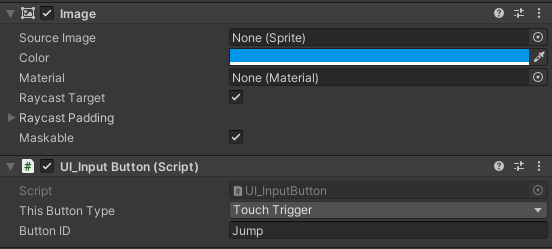
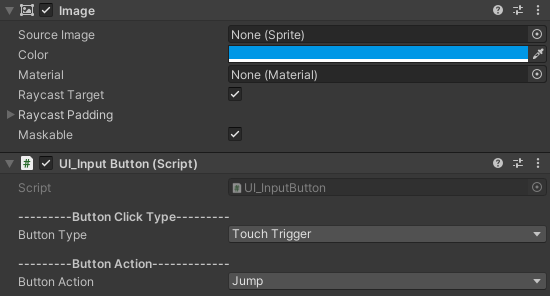
Upgraded to Enum Actions for inputs

diff --git a/Unity Files/Assets/Scripts/UI_InputSystem/Base/UI_InputSystem.cs b/Unity Files/Assets/Scripts/UI_InputSystem/Base/UI_InputSystem.cs
@@ -1,11 +1,12 @@
 using System.Collections.Generic;
 using UnityEngine;
 using UI_Inputs;
+using UI_Inputs.Enums;
 
 public static class UI_InputSystem
 {
-    private static Dictionary<string, UI_InputJoystick> UI_JoySticks;
-    private static Dictionary<string, UI_InputButton> UI_Buttons;
+    private static Dictionary<ButtonAction, UI_InputButton> UI_Buttons;
+    private static Dictionary<JoyStickAction, UI_InputJoystick> UI_JoySticks;
 
     #region Initialize Area
     static void PrepareValues()
@@ -32,7 +33,7 @@ public static class UI_InputSystem
     #endregion
 
     #region Inputs Area
-    static bool ButtonPressProcessor(string buttonToCheckPress)
+    static bool ButtonPressProcessor(ButtonAction buttonToCheckPress)
     {
         PrepareValues();
 
@@ -42,7 +43,7 @@ public static class UI_InputSystem
         return false;
     }
 
-    static Vector2 JoyStickProcessor(string joyStickToCheckPress)
+    static Vector2 JoyStickProcessor(JoyStickAction joyStickToCheckPress)
     {
         PrepareValues();
 
@@ -52,20 +53,20 @@ public static class UI_InputSystem
         return Vector2.zero;
     }
 
-    public static Vector2 PlayerMovementDirection => JoyStickProcessor("movementJoystick");
+    public static Vector2 PlayerMovementDirection => JoyStickProcessor(JoyStickAction.Movement);
 
-    public static float Camera_X_Movement => JoyStickProcessor("cameraJoystick").x;
+    public static float Camera_X_Movement => JoyStickProcessor(JoyStickAction.CameraLook).x;
 
-    public static float Camera_Y_Movement => JoyStickProcessor("cameraJoystick").y;
+    public static float Camera_Y_Movement => JoyStickProcessor(JoyStickAction.CameraLook).y;
 
-    public static bool JumpInput => ButtonPressProcessor("Jump");
+    public static bool JumpInput => ButtonPressProcessor(ButtonAction.Jump);
 
-    public static bool ClickInput => ButtonPressProcessor("clickTrigger");
+    public static bool ClickInput => ButtonPressProcessor(ButtonAction.Action1);
 
-    public static bool AfterClickInput => ButtonPressProcessor("afterTrigger");
+    public static bool AfterClickInput => ButtonPressProcessor(ButtonAction.Action2);
 
-    public static bool HoldClickInput => ButtonPressProcessor("holdTrigger");
+    public static bool HoldClickInput => ButtonPressProcessor(ButtonAction.Action3);
 
-    public static bool TouchInput => ButtonPressProcessor("touchTrigger");
+    public static bool TouchInput => ButtonPressProcessor(ButtonAction.Action4);
     #endregion
 }

diff --git a/Unity Files/Assets/Scripts/UI_InputSystem/Tools/UI_InputButton.cs b/Unity Files/Assets/Scripts/UI_InputSystem/Tools/UI_InputButton.cs
@@ -1,20 +1,23 @@
 using System.Collections;
 using UnityEngine;
 using UnityEngine.EventSystems;
+using UI_Inputs.Enums;
 
 namespace UI_Inputs
 {
     public class UI_InputButton : MonoBehaviour, IPointerClickHandler, IPointerDownHandler, IPointerUpHandler
     {
+        [Header("---------Button Click Type---------")]
         [SerializeField]
-        private ButtonType thisButtonType = ButtonType.ClickTrigger;
+        private ButtonType buttonType = ButtonType.ClickTrigger;
 
+        [Header("---------Button Action-------------")]
         [SerializeField]
-        private string _buttonID = "Jump";
+        private ButtonAction _buttonAction = ButtonAction.Jump;
 
         public bool isPressing { get; private set; } = false;
 
-        public string idButton => _buttonID;
+        public ButtonAction idButton => _buttonAction;
 
         public void OnPointerClick(PointerEventData eventData)
         {
@@ -35,25 +38,25 @@ namespace UI_Inputs
 
         void ProcessIfTouchTrigger()
         {
-            if (thisButtonType == ButtonType.TouchTrigger)
-                StartCoroutine(MakeClick());
+            if (buttonType == ButtonType.TouchTrigger)
+                StartCoroutine(MakeAFrameClick());
         }
 
         void ProcessIfAfterClickTrigger()
         {
-            if (thisButtonType == ButtonType.AfterClickTrigger)
-                StartCoroutine(MakeClick());
+            if (buttonType == ButtonType.AfterClickTrigger)
+                StartCoroutine(MakeAFrameClick());
         }
 
         void ProcessIfClickTrigger()
         {
-            if (thisButtonType == ButtonType.ClickTrigger)
-                StartCoroutine(MakeClick());
+            if (buttonType == ButtonType.ClickTrigger)
+                StartCoroutine(MakeAFrameClick());
         }
 
         void ProcessIfHoldTrigger()
         {
-            if (thisButtonType == ButtonType.HoldTrigger)
+            if (buttonType == ButtonType.HoldTrigger)
                 isPressing = !isPressing;
         }
 
@@ -62,7 +65,7 @@ namespace UI_Inputs
             isPressing = false;
         }
 
-        IEnumerator MakeClick()
+        IEnumerator MakeAFrameClick()
         {
             isPressing = true;
             yield return new WaitForEndOfFrame();

diff --git a/Unity Files/Assets/Scripts/UI_InputSystem/Base/UI_InputsFinder.cs b/Unity Files/Assets/Scripts/UI_InputSystem/Base/UI_InputsFinder.cs
@@ -1,16 +1,17 @@
 using System.Collections.Generic;
 using UnityEngine;
+using UI_Inputs.Enums;
 
 namespace UI_Inputs
 {
     public static class UI_InputsFinder
     {
-        public static Dictionary<string, UI_InputButton> GetButtonDictionary()
+        public static Dictionary<ButtonAction, UI_InputButton> GetButtonDictionary()
         {
-            Dictionary<string, UI_InputButton> newUI_Buttons;
+            Dictionary<ButtonAction, UI_InputButton> newUI_Buttons;
 
             UI_InputButton[] availableButtons = GetObjectsOfTypeUI_Button();
-            newUI_Buttons = new Dictionary<string, UI_InputButton>();
+            newUI_Buttons = new Dictionary<ButtonAction, UI_InputButton>();
 
             foreach (UI_InputButton button in availableButtons)
             {
@@ -21,12 +22,12 @@ namespace UI_Inputs
             return newUI_Buttons;
         }
 
-        public static Dictionary<string, UI_InputJoystick> GetJoystickDictionary()
+        public static Dictionary<JoyStickAction, UI_InputJoystick> GetJoystickDictionary()
         {
-            Dictionary<string, UI_InputJoystick> newUI_Joysticks;
+            Dictionary<JoyStickAction, UI_InputJoystick> newUI_Joysticks;
 
             UI_InputJoystick[] availableJoysticks = GetObjectsOfTypeUI_Joystick();
-            newUI_Joysticks = new Dictionary<string, UI_InputJoystick>();
+            newUI_Joysticks = new Dictionary<JoyStickAction, UI_InputJoystick>();
 
             foreach (UI_InputJoystick joystick in availableJoysticks)
             {

diff --git a/Unity Files/Assets/Scripts/UI_InputSystem/Tools/UI_InputJoystick.cs b/Unity Files/Assets/Scripts/UI_InputSystem/Tools/UI_InputJoystick.cs
@@ -1,13 +1,14 @@
 using UnityEngine;
+using UI_Inputs.Enums;
 
 namespace UI_Inputs
 {
     public class UI_InputJoystick : MonoBehaviour
     {
         [SerializeField]
-        private string _joyStickID = "movementJoystick";
+        private JoyStickAction _joystickAction = JoyStickAction.Movement;
 
-        public string idJoystick => _joyStickID;
+        public JoyStickAction idJoystick => _joystickAction;
 
         private Joystick thisJoystick;
 

diff --git a/Unity Files/Assets/Scripts/UI_InputSystem/Base/Input Enums.cs b/Unity Files/Assets/Scripts/UI_InputSystem/Base/Input Enums.cs
@@ -1,0 +1,17 @@
+namespace UI_Inputs.Enums
+{
+    public enum ButtonAction 
+    {
+        Jump,
+        Action1,
+        Action2, 
+        Action3,
+        Action4
+    }
+
+    public enum JoyStickAction
+    {
+        Movement,
+        CameraLook
+    }
+}

diff --git a/README.md b/README.md
@@ -9,39 +9,63 @@ Didn't test this with older Unity versions, but it should work fine! <br>
 Uses the FREE asset <a href='https://assetstore.unity.com/packages/tools/input-management/joystick-pack-107631'> Joystick Pack </a> from the asset store for the joysticks! Asset made by <a href='https://assetstore.unity.com/publishers/32730'> Fenerax Studios</a>! <br>
 
 # SetUp
+
+## Create You Actions
+* Add your desired actions in InputEnums.cs
+
+```C#
+namespace UI_Inputs.Enums
+{
+    public enum ButtonAction 
+    {
+        Jump,
+        Action1,
+        Action2, 
+        Action3,
+        Action4
+    }
+
+    public enum JoyStickAction
+    {
+        Movement,
+        CameraLook
+    }
+}
+```
+
 ## Button
 * Assign "UI_InputButton.cs" to a UI element with an image (clickable area)! <br>
-* Choose an ID for what that button action is! Example: Jump, Run, Shoot... <br>
+* Choose the desired action for the button created from the InputEnums! Example: Jump, Run, Shoot... <br>
 
 ![1](Screenshots/SetUpButton.png) <br>
 <strong> Obs: </strong> Compatible with: "Click Trigger", "Touch Trigger", "Hold Trigger" and "After Click Trigger"
 
 ## Joysticks
 * Assign "UI_InputJoystick.cs" to a Joystick from the asset pack (can be any type of joystick [Fixed, Floating etc...]) <br>
-* Choose an ID for that Joystick! Example: joystickCamera, joystickPlayerMovement... <br>
+* Choose the desired Joystick Action for the Joystick created from the InputEnums! Example: joystickCamera, joystickPlayerMovement... <br>
 
 ![1](Screenshots/SetUpJoystick.png)
 
 
 ## Create Inputs
-* Add your commands along with the ID's in "UI_InputSystem.cs" (bool and Vector2 ready)
+* Add your commands along with the Actions in "UI_InputSystem.cs" (bool and Vector2 ready)
 
 ```C#
-public static Vector2 PlayerMovementDirectio => JoyStickProcessor("movementJoystick");
+public static Vector2 PlayerMovementDirection => JoyStickProcessor(JoyStickAction.Movement);
 
-public static float Camera_X_Movement => JoyStickProcessor("cameraJoystick").x;
+public static float Camera_X_Movement => JoyStickProcessor(JoyStickAction.CameraLook).x;
 
-public static float Camera_Y_Movement => JoyStickProcessor("cameraJoystick").y;
+public static float Camera_Y_Movement => JoyStickProcessor(JoyStickAction.CameraLook).y;
 
-public static bool JumpInput => ButtonPressProcessor("Jump");
+public static bool JumpInput => ButtonPressProcessor(ButtonAction.Jump);
 
-public static bool ClickInput => ButtonPressProcessor("clickTrigger");
+public static bool ClickInput => ButtonPressProcessor(ButtonAction.Action1);
 
-public static bool AfterClickInput => ButtonPressProcessor("afterTrigger");
+public static bool AfterClickInput => ButtonPressProcessor(ButtonAction.Action2);
 
-public static bool HoldClickInput => ButtonPressProcessor("holdTrigger");
+public static bool HoldClickInput => ButtonPressProcessor(ButtonAction.Action3);
 
-public static bool TouchInput => ButtonPressProcessor("touchTrigger");
+public static bool TouchInput => ButtonPressProcessor(ButtonAction.Action4);
 ```
 
 ## Using Inputs
@@ -60,8 +84,6 @@ public static bool TouchInput => ButtonPressProcessor("touchTrigger");
     }
 ```
 <strong> Obs: </strong> This code is located in "PlayerMovement.cs"
-
-
 
 ## FPS Example
 ![1](Screenshots/Demo.png) <br>
